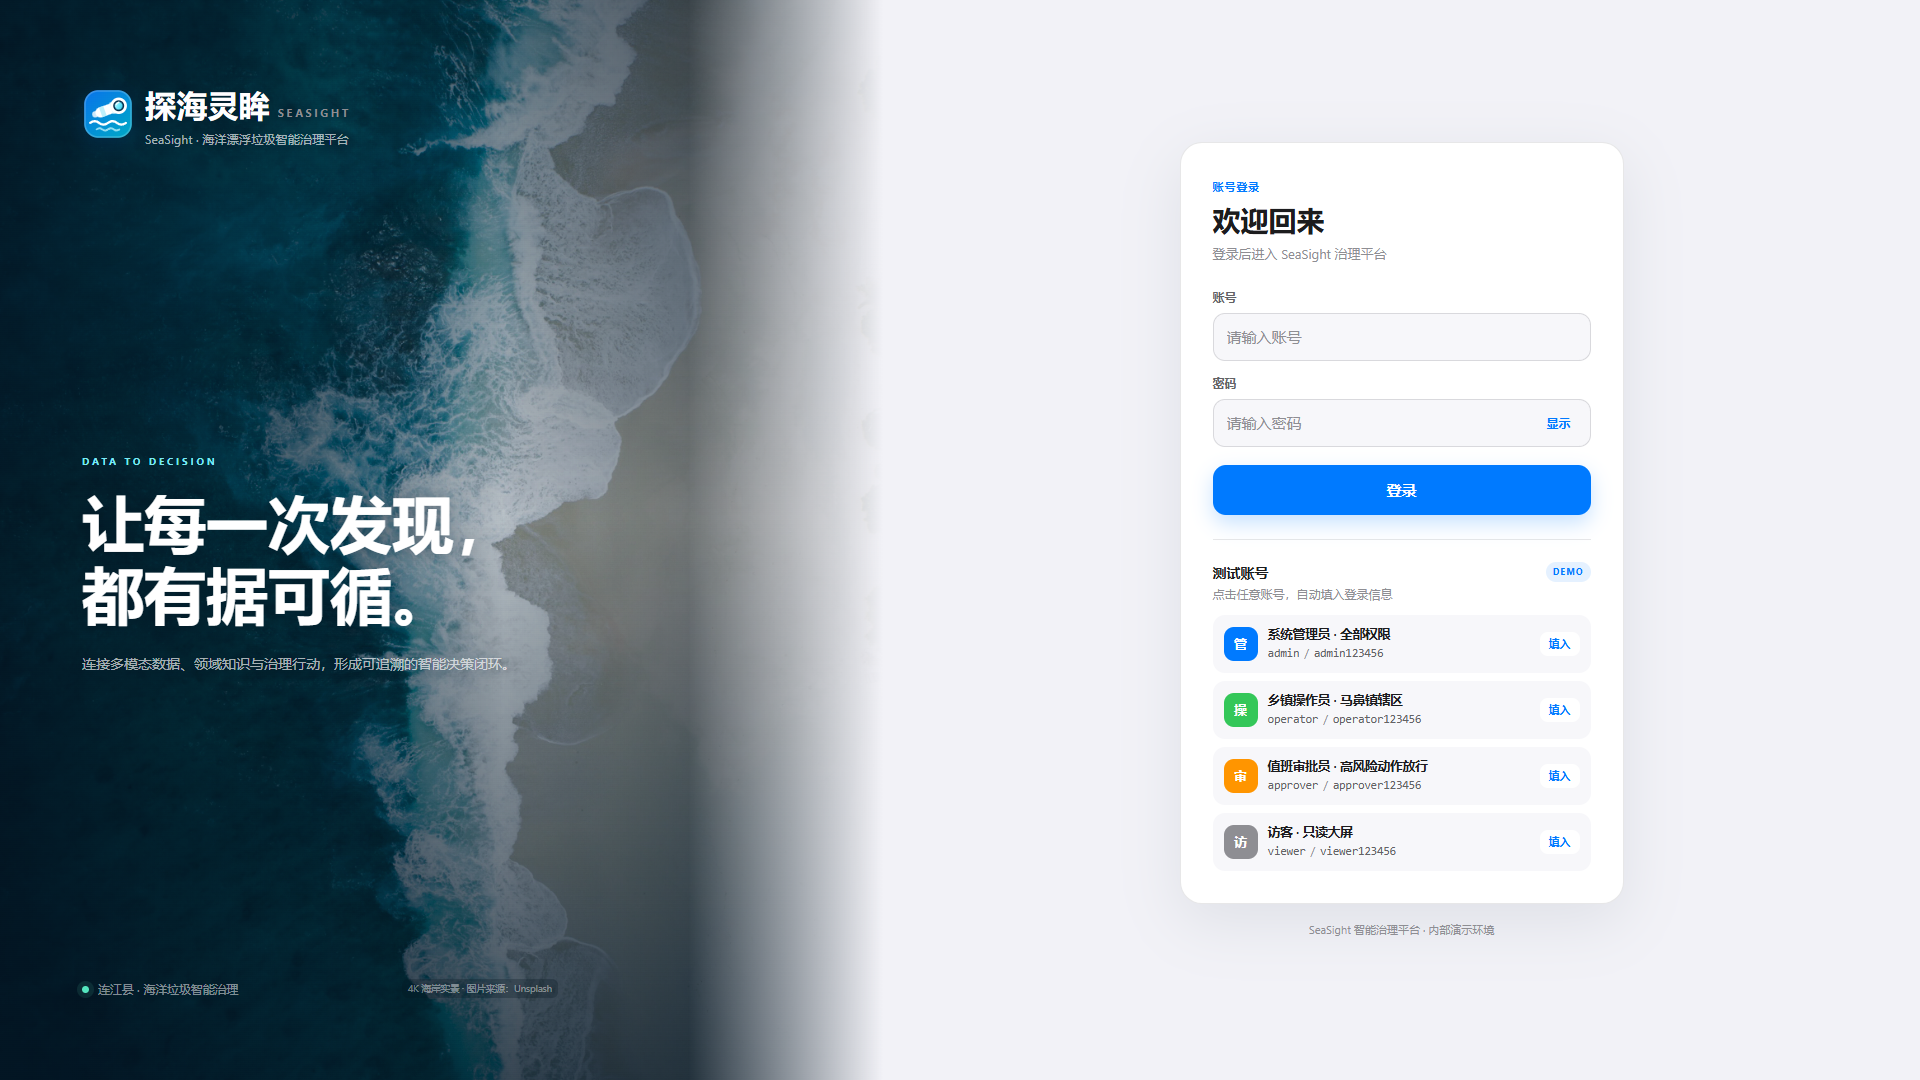
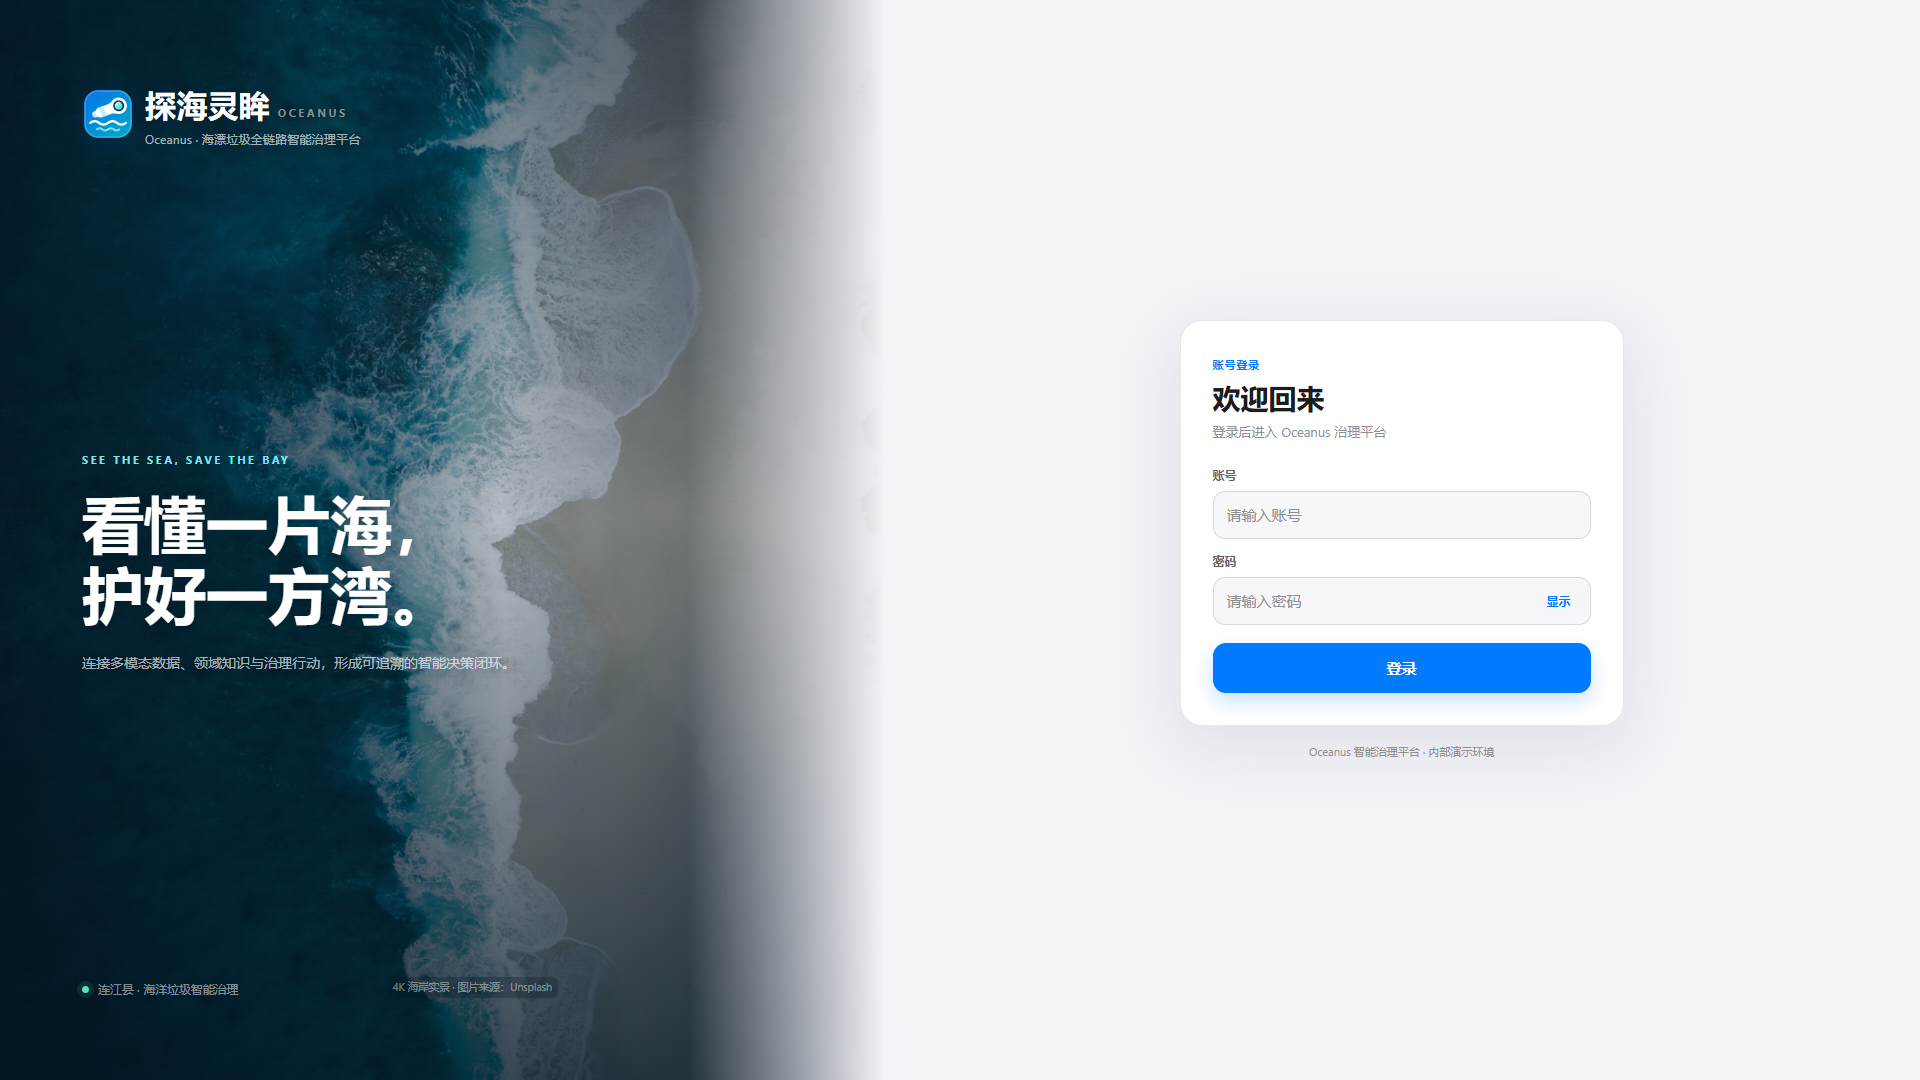
fix(软著): 重拍干净登录页，说明书零明文口令 + 新增提交前自检
## 解决审查报告 P0-4（登录页截图明文展示 4 组账号口令）

## ★ 为什么是重拍而不是涂改

先试了「用 PIL 涂改旧图」，失败三次：
1. 审查报告给的坐标（x645–845/y292–470）**实际偏差近一倍** ——
   照着涂只涂到背景海浪上。**别人给的坐标必须自己验证。**
2. 取底色时按「box 左上角 -3px」取 —— 正好落在角色名文字上，
   涂出来是褐色块。
3. 改「自动扫描定位」也不行：按列间空隙找 `/` 分隔符，在不同长度的
   口令上表现不一致（admin 行分出 3 段、viewer 只2 段）；用
   「y 中心 ±14px」又会吃到上一行中文角色名的降部。

**最终改为：用「面板不渲染」的生产构建重拍。** 上一笔提交已经让
`VITE_DEMO_ACCOUNTS` 为空时面板整个不渲染，从源头不存在这个问题。
事后打补丁不如从源头消除。

## scripts/shoot_clean_login.mjs

截图并**自证**：面板数=0、页面明文口令数=0，两者都满足才 exit 0。

## scripts/verify_copyright_sensitive.py —— 提交前自检

两类检查：
1. **正文文本**扫口令 / 真实姓名
2. **内嵌图片**用内容哈希比对，指出哪些源图进了材料

★ 为什么必须扫图片：P0-4 就是**截图**里有口令，docx 正文里
根本没有这些字 —— 只扫 text 会漏。图片侧不做 OCR（不引依赖），
改用哈希比对定位「哪张图进了材料」，再人工确认一次。

当前结果：
```
说明书正文     → 4 组口令 + 真实姓名「刘乾松」全部 0 命中 ✓
内嵌图 13 张   → image1 是新登录页（已干净）
                 image2 是治理大屏（需人工确认）
```

## 仍未处理

- **image2 治理大屏截图**需人工确认是否含敏感信息
  （审查报告 P1-1 提到该图指标全 0、「暂无可用摄像头」，是空数据态）
- 说明书 8 张截图为空数据/报错状态 —— 需重跑带演示数据的环境
- 目录 29 条无页码

diff --git a/scripts/verify_copyright_sensitive.py b/scripts/verify_copyright_sensitive.py
@@ -1,0 +1,93 @@
+"""软著材料提交前的敏感信息自检。
+
+对生成的 docx 做两类检查：
+  1. 正文文本里的口令 / 真实姓名
+  2. **内嵌图片**里的敏感信息 —— 这一类最容易漏，因为文字层扫不到。
+
+★ 为什么必须扫图片：审查报告 P0-4 就是登录页**截图**里明文显示
+  4 组账号口令，而 docx 正文里根本没有这些字。只扫 text 会漏。
+
+图片侧做不到 OCR（不引依赖），所以采用**内容哈希比对**：
+把截图源文件与 docx 内嵌图逐一比哈希，命中即说明"这张图进了材料"。
+再配合人工确认该图是否含敏感信息。
+
+用法：
+    python scripts/verify_copyright_sensitive.py <docx> [...]
+"""
+from __future__ import annotations
+
+import hashlib
+import io
+import os
+import re
+import sys
+import zipfile
+
+#: 正文里出现即视为敏感的字面量
+FORBIDDEN = [
+    "admin123456", "operator123456", "approver123456", "viewer123456",
+    "刘乾松",# 审查报告 P1-2 指出的真实姓名
+]
+
+#: 内嵌图若命中这些源文件，说明"这张图进了材料"，需人工确认
+IMAGE_SOURCES = [
+    "artifacts/ui-responsive/1920x1080-login.png",
+    "artifacts/ui-responsive/1920x1080-dashboard.png",
+]
+ROOT = os.path.dirname(os.path.dirname(os.path.abspath(__file__)))
+
+
+def scan_text(z: zipfile.ZipFile, label: str) -> list[str]:
+    xml = z.read("word/document.xml").decode("utf-8", "replace")
+    txt = re.sub(r"<[^>]+>", "", xml)
+    return [k for k in FORBIDDEN if k in txt]
+
+
+def scan_images(z: zipfile.ZipFile) -> list[str]:
+    """返回「进了材料的敏感源图」列表。"""
+    src_hashes = {}
+    for rel in IMAGE_SOURCES:
+        p = os.path.join(ROOT, rel)
+        if os.path.isfile(p):
+            src_hashes[hashlib.md5(open(p, "rb").read()).hexdigest()] = rel
+    hits = []
+    for name in z.namelist():
+        if not name.startswith("word/media/"):
+            continue
+        h = hashlib.md5(z.read(name)).hexdigest()
+        if h in src_hashes:
+            hits.append("%s ← %s" % (name, src_hashes[h]))
+    return hits
+
+
+def main() -> int:
+    if len(sys.argv) < 2:
+        print(__doc__)
+        return 2
+    bad = 0
+    for docx in sys.argv[1:]:
+        print("=== %s ===" % os.path.basename(docx))
+        z = zipfile.ZipFile(docx)
+        hits = scan_text(z, docx)
+        if hits:
+            print("  ✗ 正文含敏感字面量：%s" % ", ".join(hits))
+            bad += 1
+        else:
+            print("  ✓ 正文无口令 / 真实姓名")
+
+        imgs = scan_images(z)
+        n_media = len([n for n in z.namelist() if n.startswith("word/media/")])
+        print("  · 内嵌图 %d 张，其中需人工确认的：%d 张" % (n_media, len(imgs)))
+        for i in imgs:
+            print("    %s" % i)
+        z.close()
+        print()
+    if bad:
+        print("✗ 有 %d 个文件未通过" % bad)
+        return 1
+    print("✓ 全部通过（图片侧仍需人工确认一次）")
+    return 0
+
+
+if __name__ == "__main__":
+    sys.exit(main())

diff --git a/scripts/build_copyright_source_code.py b/scripts/build_copyright_source_code.py
@@ -151,15 +151,17 @@ def build_concatenation() -> tuple[list[str], int]:
 
 
 def pick_front_back(concat: list[str]) -> tuple[list[str], list[str], bool]:
-    """截取前 1500 行与后 1500 行。返回 (前段, 后段, 是否全量)。"""
+    """截取前 1500 行与后 1500 行。返回 (前段, 后段, 是否全量)。
+
+    两段都必须**恰好** 50 的整数倍，否则后段起始下标落在页中间，
+    分页边界会整体错位（表现为总页数 ≠ 60 或出现空白页）。
+    """
     need = LINES_PER_PAGE * PAGES_EACH_SIDE
     if len(concat) <= need * 2:
         return concat, [], True
     front = concat[:need]
+    # 后段从尾部往前取 need 行；concat 已剔除空行，末行必为有效代码行。
     back = concat[-need:]
-    # 保证后段最后一行是程序结尾（非空行）
-    while back and not back[-1].strip():
-        back.pop()
     return front, back, False
 
 
@@ -298,7 +300,7 @@ def write_pages(doc: Document, lines: list[str], start_line: int = 0,
     for i, raw in enumerate(lines):
         text = sanitize_emoji(raw[:MAX_LINE_WIDTH])
         pos = start_line + i
-        need_break = (pos % LINES_PER_PAGE == 0)
+        need_break = (pos % LINES_PER_PAGE == 0) and (pos > 0)
         add_code_line(doc, text, LINE_SPACING_PT, page_break_before=need_break)
         written += 1
         # 分页页补行：含分页符那页会少排 1~2 个行位，补回来才够 50 行。
@@ -307,13 +309,8 @@ def write_pages(doc: Document, lines: list[str], start_line: int = 0,
             for _ in range(PAD_LINES):
                 add_code_line(doc, "", LINE_SPACING_PT, page_break_before=False)
 
-    # 段尾若恰好在页边界，下一段会从新页开始；否则补齐当前页剩余行位，
-    # 让「前30 页」与「后 30 页」的分界正好落在页边界上。
-    # pad_to_page 只对**前段**开启（后段是文档结尾，补齐会产生空白页）。
-    if pad_to_page and total % LINES_PER_PAGE:
-        pad = LINES_PER_PAGE - (total % LINES_PER_PAGE)
-        for _ in range(pad):
-            add_code_line(doc, "", LINE_SPACING_PT, page_break_before=False)
+    # 段尾补齐会多出整页（60 页变 61 页并产生空白页），故**不做段尾补齐**：
+    # 前后两段本身都恰好是 50 的整数倍，分页符自然落在页边界上。
     return written
 
 
